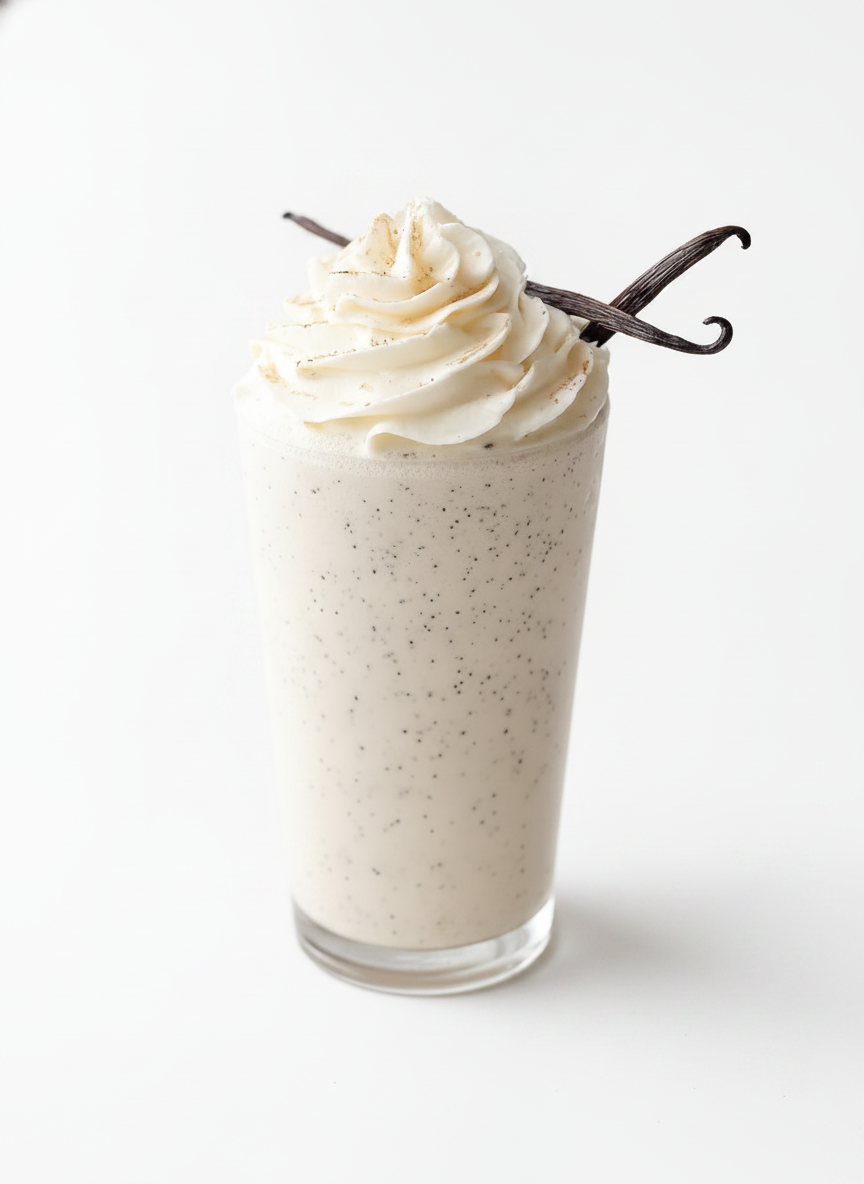
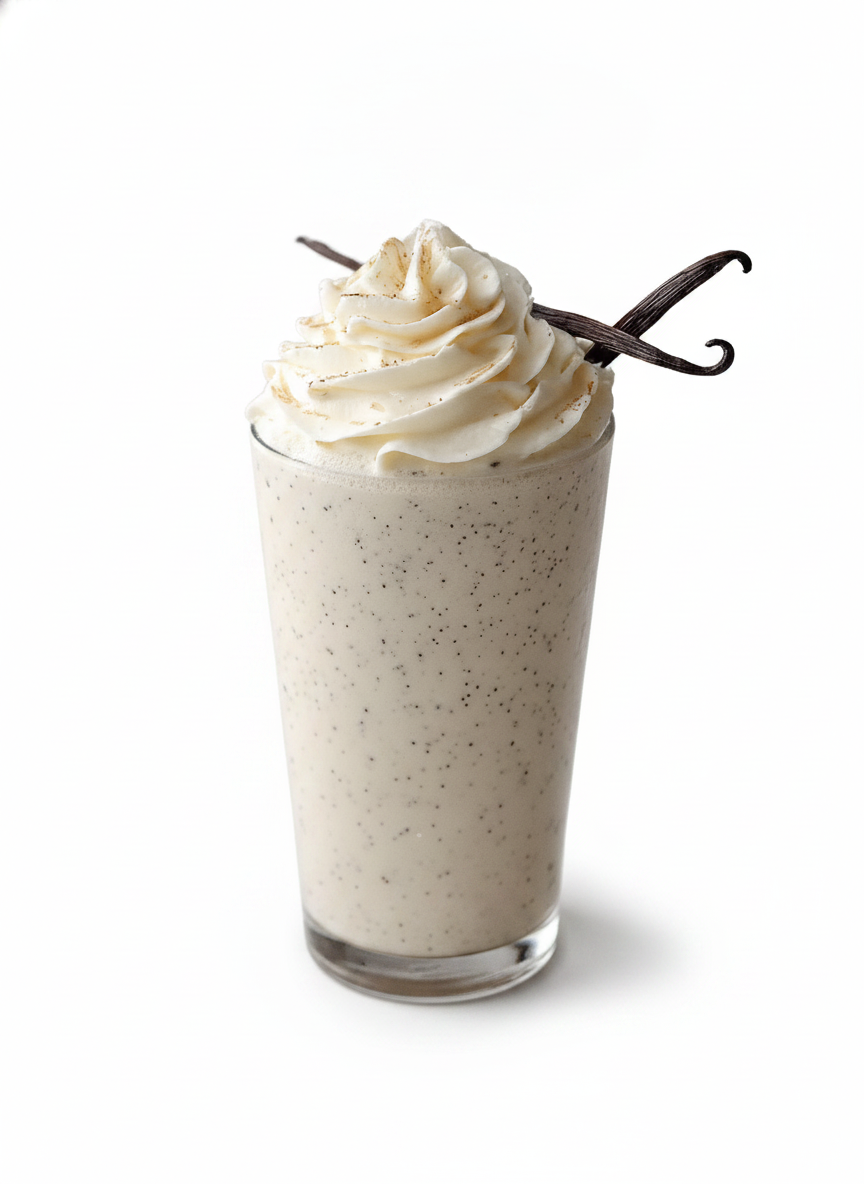
Make the vanilla glass read as a glass
The customer reported the vanilla glass still looked defective, and it did: the
drink had no rim, no wall and no foot, reading as a moulded block of ice cream
rather than a shake in a tumbler. The fault was in the generated frame, not the
compositing - the glass was already absent before anything was composited.

The cause was my own prompt. It asked for a seamless pure white background, which
is the worst possible backdrop for a pale drink in clear glass: the glass edges
have nothing to separate against. The customer's own reference photograph is shot
on a 191 grey for exactly that reason, against the 243 near-white I asked for.

Copying the grey does not work here, and that attempt is worth recording so it is
not tried again. The layer is developed against bone white by multiplying the
ratio of the photo to its own backdrop, so a subject brighter than the sweep it
was shot on runs past 255 and clips. On a 193 grey the shake measured a ratio of
1.20 against a ceiling of 1.058 and 54,489 pixels blew out; layers_intact caught
it as a 1,387 px blown-out patch. On white it peaks at 1.006 and none clip.

So the sweep stays white and the glass is made to read the way a photographer
would do it on white - by lighting the glass rather than darkening the room.
Dark-field lighting lays a soft dark refraction line down each wall, the rim is
called out, and the base is asked for as heavy glass reading darker than the
drink above it.
[…]

diff --git a/nomukita-carousel/batch.py b/nomukita-carousel/batch.py
@@ -66,16 +66,42 @@ WATERMARKED = {"blacktea": "Black tea_clean.png"}
 DRINK_PROMPT = (
     "Restage this photograph as a clean studio product shot of the drink on its own. "
     "{what} "
+    "The glass must read as glass: a visible rim, visible wall thickness down both sides, "
+    "clean specular highlights along the glass, and a solid foot with its own thickness "
+    "showing. The drink is inside a glass, not a moulded block. "
     "Remove the straw, the table, every surrounding prop and the entire background. "
     "Stand the glass upright and centred, whole and unclipped, filling most of the frame "
     "with a margin above the rim and below the base. "
-    "Seamless pure white background: no horizon line, no table edge, no surface seam, no "
-    "visible floor and no gradient - the white must be even everywhere behind and beside "
-    "the glass. One soft contact shadow directly beneath the base and nothing else. "
+    "{sweep} {glass} No horizon line, no table edge, no surface seam, no visible floor and no "
+    "gradient - the backdrop must be even everywhere behind and beside the glass. One soft "
+    "contact shadow directly beneath the base and nothing else. "
     "Soft diffused studio light from the upper left. Real camera photograph, 50 mm lens, "
     "eye level, sharp focus, natural colour, no rim light, no glow, no neon edge, no text, "
     "no logo, no watermark, ABSOLUTELY NO STRAW."
 )
+WHITE_SWEEP = "Seamless pure white background."
+
+# A pale drink in a clear glass has nothing to separate against on white, and the
+# first vanilla attempt came back with the glass swallowed whole - it read as a
+# moulded block of ice cream with no rim, no walls and no foot. The customer's own
+# reference photograph solves that with a mid grey backdrop.
+#
+# Copying that does not work here. The layer is developed against bone white by
+# multiplying the ratio of the photo to its own backdrop, so a subject brighter
+# than the sweep it was shot on runs past 255 and clips. On a 193 grey the shake
+# measured a ratio of 1.20 against a ceiling of 1.058, and 54,489 pixels blew out;
+# on white it peaked at 1.006 and none did.
+#
+# So the sweep stays white and the glass is made to read the way a photographer
+# would do it on white - by lighting the glass rather than darkening the room.
+GLASSWARE = (
+    "This is a pale drink in clear glass on a white background, the hardest thing there is to "
+    "keep legible, so light it the way a specialist would: dark-field lighting that lays a "
+    "soft dark refraction line down each wall of the glass, a clearly defined rim, and a heavy "
+    "base whose glass thickness reads darker than the drink above it. The glass must be "
+    "unmistakably a glass and never brighter than the background."
+)
+GLASS_NOTE = {"vanilla": GLASSWARE}
 KEEP_GLASS_AND_DRINK = (
     "Keep the same glass - identical shape, proportions, wall thickness and foot - and the "
     "same drink inside it, with the same colours, layers, foam and garnish."
@@ -195,7 +221,9 @@ def main(only=None):
             continue
         print(slug, flush=True)
         what = KEEP_GLASS_AND_DRINK if desc is None else KEEP_GLASS_ONLY.format(desc=desc)
-        run(DRINK_PROMPT.format(what=what), [link(ref)], "3:4", out)
+        prompt = DRINK_PROMPT.format(what=what, sweep=WHITE_SWEEP,
+                                     glass=GLASS_NOTE.get(slug, ""))
+        run(prompt, [link(ref)], "3:4", out)
 
     for name, (ref, desc) in PROPS.items():
         if only and name not in only:
